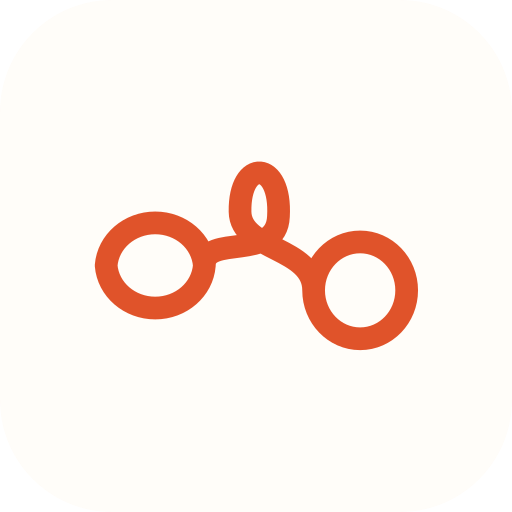
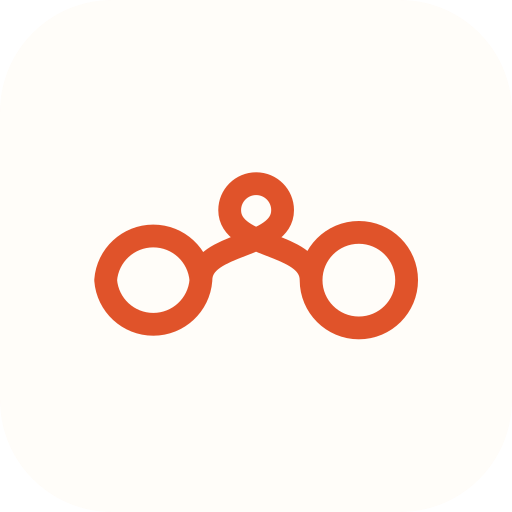
style(brand): 리본을 기하학적으로 — 두 ㅇ 같은 크기 정원·같은 높이, 고리는 가운데 대칭
- 성효님: 로고가 손그림 같다, 비율이 맞춰진 느낌이면 좋겠다. 두 ㅇ 크기·높이가 달랐고 고리가 손으로 휜 곡선이었음.
- 다른 획과 붙은 연의 ㅇ은 바탕색으로 덮고 새 원을 그림. 아이콘도 같은 리본으로 다시 생성.

Claude-Session: https://claude.ai/code/session_0167Tg9DgNhsN7PbABVZ7vUc

Changed region(s): [[0.1562, 0.3125, 0.5625, 0.6562], [0.5312, 0.4062, 0.8125, 0.6875], [0.5625, 0.375, 0.5938, 0.4375]]

diff --git a/src/components/logo-data.ts b/src/components/logo-data.ts
@@ -1,8 +1,8 @@
 // 폰트 윤곽에서 뽑은 로고 모양 (IBM Plex Sans KR 700, 고운바탕 700 — 둘 다 SIL OFL). 손으로 고치지 않는다.
-// 우·연의 ㅇ은 지우고 리본 선 하나(ribbon)로 다시 그린다. 원과 리본 고리는 모두 시계 반대 방향, 같은 곳을 두 번 지나지 않는다:
-// 왼쪽 ㅇ 오른쪽 끝에서 위로 한 바퀴 → 그대로 리본 고리 → 오른쪽 ㅇ 왼쪽 끝으로 들어가 한 바퀴.
+// 우·연의 ㅇ은 지우고(다른 획과 붙은 ㅇ은 erase로 바탕색을 덮어) 리본 선 하나(ribbon)로 다시 그린다.
+// 리본은 기하학적으로 맞춤: 두 ㅇ은 같은 크기 정원·같은 높이, 고리는 가운데 좌우 대칭. 모두 시계 반대 방향으로 한 줄.
 export const LOGOS = {
-  plex: {"label":"IBM Plex Sans KR","vb":"-4.7 -25.8 448 149.4","sw":14.5,"wy":"M85.9 72.8L85.9 84.1L51.3 84.1L51.3 114.2L37.9 114.2L37.9 84.1L3.3 84.1L3.3 72.8L85.9 72.8M118 74.3L118 74.3Q110.9 74.3 105.4 71.5Q99.9 68.6 96.9 63.2Q93.8 57.8 93.8 50.4L93.8 50.4Q93.8 43 96.9 37.7Q99.9 32.3 105.4 29.5Q110.9 26.6 118 26.6L118 26.6Q124.3 26.6 129.4 28.9Q134.4 31.2 137.6 35.5L137.6 35.5L156 35.5L156 22.1L169.4 22.1L169.4 88.5L156 88.5L156 65.8L137.3 65.8Q134.1 69.9 129.1 72.1Q124.1 74.3 118 74.3M118 63.5L118 63.5Q122.6 63.5 125.4 60.9Q128.1 58.2 128.1 53.3L128.1 53.3L128.1 47.6Q128.1 42.7 125.4 40.1Q122.6 37.4 118 37.4L118 37.4Q113.3 37.4 110.6 40.1Q107.8 42.7 107.8 47.6L107.8 47.6L107.8 53.3Q107.8 58.2 110.6 60.9Q113.3 63.5 118 63.5M156 46.3L141.8 46.3Q142.1 48.2 142.1 50.4L142.1 50.4Q142.1 52.7 141.8 55L141.8 55L156 55L156 46.3M124.5 101.7L171.1 101.7L171.1 112.7L119.5 112.7Q111 112.7 111 104.2L111 104.2L111 81.3L124.5 81.3L124.5 101.7","han":"M227 69.2L235.2 69.2L235.2 76.1L227 76.1L227 94.1L218.7 94.1L218.7 51.7L227 51.7L227 69.2M207.3 53.1L207.3 60L190.7 60L190.7 53.1L207.3 53.1M198.7 88.5Q194.5 88.5 191.5 87.1Q188.4 85.7 186.8 83.4Q185.2 81.2 185.2 78.5Q185.2 73.2 189.9 71L189.9 70.5L182.1 70.5L182.1 63.7L215.3 63.7L215.3 70.5L207.5 70.5L207.5 71Q212.2 73.2 212.2 78.5Q212.2 81.2 210.6 83.4Q209 85.7 205.9 87.1Q202.8 88.5 198.7 88.5M198.3 81.5L199.1 81.5Q201.5 81.5 203 80.1Q204.5 78.7 204.5 76.5Q204.5 74.3 203 72.9Q201.5 71.5 199.1 71.5L198.3 71.5Q195.9 71.5 194.4 72.8Q192.9 74.2 192.9 76.5Q192.9 78.8 194.4 80.2Q195.9 81.5 198.3 81.5M199.8 92.1L199.8 101.7L228.3 101.7L228.3 108.5L196.7 108.5Q191.4 108.5 191.4 103.2L191.4 92.1","sik":"M324.4 22.1L337.9 22.1L337.9 75.2L324.4 75.2L324.4 22.1M270.3 75.3L260.3 66.6Q271.4 57.6 276.3 49.8Q281.1 42.1 281.1 33L281.1 26.4L294.6 26.4L294.6 33.8Q294.6 43.8 290.6 51.9L291.1 52.2L294 49.8Q295.8 48.3 297.5 48.3Q299.2 48.3 300.7 49.8L316.1 64.3L306.4 73.7L290.1 57.1Q289.5 56.5 288.7 56.5Q288.1 56.5 287.5 57.1Q282.1 65.2 270.3 75.3M278.3 90.9L278.3 79.6L337.9 79.6L337.9 115.6L324.7 115.6L324.7 90.9M435.3 43.5L435.3 54.7L422.1 54.7L422.1 77.2L408.7 77.2L408.7 22.1L422.1 22.1L422.1 43.5L435.3 43.5M400.1 62L401.7 72.5Q393.3 74 384.3 74.8Q375.2 75.5 361.6 75.5L352.3 75.5L352.3 27.1L394.8 27.1L394.8 37.9L365.4 37.9L365.4 45.5L393.6 45.5L393.6 56.2L365.4 56.2L365.4 64.8Q376.2 64.7 384.2 64Q392.2 63.3 400.1 62M363.5 92.8L363.5 81.6L422.1 81.6L422.1 115.6L408.9 115.6L408.9 92.8","ribbon":"M67.6 44.7 A22.9 17.4 0 0 0 21.7 44.7 A22.9 17.4 0 0 0 67.6 44.7 C67.6 32.5 87.7 41.8 87.8 25.4 C88.1 5.2 73 5.3 74 24.3 C74.8 38.2 101.5 33.1 101.5 50.5 A16.4 19.3 0 0 0 134.4 50.5 A16.4 19.3 0 0 0 101.5 50.5"},
-  batang: {"label":"고운바탕","vb":"-5 -35.3 455.7 152.4","sw":10.5,"wy":"M47.7 104L47.7 104Q45.7 104 45.2 101.6L45.2 101.6Q44.7 99 44.6 96Q44.5 92.9 44.5 91.1L44.5 91.1L44.5 68.6Q40.2 68.7 36 69Q31.8 69.2 27.7 69.4L27.7 69.4Q23.4 69.6 19.8 70.1Q16.2 70.5 13.1 71.1L13.1 71.1Q10.9 71.6 10 71.4Q9 71.2 7.9 70.4L7.9 70.4Q7.3 69.9 6.2 68.9Q5.1 67.9 4.2 66.9Q3.2 65.8 3 65.3L3 65.3Q2.8 64.5 3.9 63Q5 61.5 6.2 61.6L6.2 61.6Q9.4 62.3 13.9 62.7Q18.3 63 23.3 63.1L23.3 63.1Q28.1 63.1 33.9 63.1Q39.7 63 45.7 62.8Q51.6 62.6 57 62.4Q62.3 62.2 66.1 62L66.1 62Q72.3 61.6 77.4 61Q82.4 60.4 85.5 59.6L85.5 59.6Q87.5 59.1 88.3 59.3Q89 59.4 89.7 60.5L89.7 60.5Q90.4 61.5 91.2 63.3Q92 65 92 65.7L92 65.7Q91.9 66.8 90.6 67.9Q89.2 68.9 88.6 68.9L88.6 68.9Q85.8 68.6 83.2 68.5Q80.5 68.3 77 68.2Q73.4 68.1 67.8 68.1L67.8 68.1Q64.5 68.1 61.1 68.2Q57.6 68.2 54 68.3L54 68.3L54 90.6Q54 93.1 53.5 96.3Q53 99.4 51.7 101.7Q50.3 104 47.7 104M165.9 82.5L165.9 82.5Q164.1 82.5 163.6 80.5L163.6 80.5Q163.1 78.2 163 75.2Q162.9 72.2 162.9 70.2L162.9 70.2Q162.9 69.7 162.9 69.5L162.9 69.5L162.9 57.4Q159.5 57.6 156.1 58.1Q152.6 58.6 150.6 59.1L150.6 59.1Q149.3 59.4 148.6 59.5Q147.8 59.5 146.9 59.2L146.9 59.2Q146.1 58.8 144.4 57.8Q142.7 56.7 141.9 55.9L141.9 55.9Q138.8 59.6 134.1 61.7Q129.4 63.7 124 63.9L124 63.9Q117.8 64.1 112.7 61.7Q107.6 59.3 104.6 54.9Q101.5 50.4 101.5 44.6L101.5 44.6Q101.5 38.8 104.5 34.3Q107.5 29.7 112.6 27Q117.7 24.2 123.9 24L123.9 24Q129.8 23.8 134.8 25.8Q139.8 27.9 142.9 32L142.9 32Q143.8 30.1 145.2 30.1L145.2 30.1Q149 30.8 154.2 30.6L154.2 30.6Q155.5 30.6 157.9 30.5Q160.3 30.3 162.9 30.2L162.9 30.2L162.9 27.5Q162.9 24.7 162.7 23.3Q162.4 21.9 161.5 20.9Q160.6 20 158.7 18.8L158.7 18.8Q157.7 18.2 157.3 17.3Q156.8 16.5 157.3 15.5L157.3 15.5Q158.1 13.8 159.4 13.3Q160.7 12.8 162.3 13.1L162.3 13.1Q164.6 13.5 167.1 14.6Q169.6 15.8 171.2 16.9L171.2 16.9Q173 18.2 173 19.4L173 19.4Q172.8 20.7 172.5 23Q172.2 25.3 172.2 27.6L172.2 27.6L172.2 69Q172.2 71.5 171.7 74.6Q171.1 77.7 169.7 80.1Q168.3 82.4 165.9 82.5M132.4 106L132.4 106Q130.9 105.9 129.1 105.1Q127.2 104.3 125.9 102.4Q124.6 100.4 124.6 97L124.6 97L124.6 89.7Q124.6 86.7 124.5 85.3Q124.3 83.8 123.6 82.9Q122.9 82 121.2 80.9L121.2 80.9Q120.3 80.3 120.1 79.6Q119.8 78.9 120.3 77.8L120.3 77.8Q121.1 76.1 122.5 75.7Q123.8 75.3 125.2 75.5L125.2 75.5Q126.9 75.8 129 76.6Q131 77.3 132.5 78.2L132.5 78.2Q133.6 78.9 134.4 79.6Q135.1 80.2 135.1 81L135.1 81Q134.7 82.7 134.5 85Q134.3 87.3 134.3 89.2L134.3 89.2L134.3 95.8Q134.3 98.3 135 98.9Q135.7 99.4 137.2 99.5L137.2 99.5Q141 99.6 145.3 99.6Q149.5 99.6 155.3 99.3L155.3 99.3Q161.8 99 166.5 98Q171.2 97 172.7 96.6L172.7 96.6Q173.8 96.2 174.5 96.5Q175.2 96.8 175.6 97.4L175.6 97.4Q176.4 98.4 177.2 100.1Q178 101.8 178 102.4L178 102.4Q178 103.2 176.9 104.4Q175.7 105.6 175 105.6L175 105.6Q173.7 105.5 170.9 105.5Q168.1 105.4 164.5 105.4Q160.9 105.4 157.1 105.5L157.1 105.5Q156.1 105.5 154.7 105.6Q153.2 105.6 151.4 105.7L151.4 105.7Q148.3 105.8 144.7 105.9Q141 106 137.7 106.1Q134.4 106.1 132.4 106M123.9 57.4L123.9 57.4Q129.5 57.2 133.2 53.5Q136.9 49.8 136.9 43.5L136.9 43.5Q136.9 36.7 133.2 33.5Q129.5 30.2 124 30.5L124 30.5Q118.3 30.8 114.6 34.5Q110.9 38.2 110.9 44.2L110.9 44.2Q110.9 50.7 114.7 54.1Q118.4 57.5 123.9 57.4M153.2 52.4L153.2 52.4Q154.6 52.4 157.4 52.3Q160.1 52.1 162.9 51.9L162.9 51.9L162.9 35.7Q159.2 35.9 156.5 36.3Q153.7 36.8 151.7 37.3L151.7 37.3Q150.4 37.7 149.7 37.7Q148.9 37.7 148 37.4L148 37.4Q147.6 37.2 146.8 36.8Q145.9 36.3 145.1 35.8L145.1 35.8Q146.5 39.2 146.5 43.2L146.5 43.2Q146.5 48 144.5 52L144.5 52Q146.2 52.2 148.5 52.4Q150.8 52.5 153.2 52.4","han":"M205.1 84.1Q201.1 84.2 198.3 82.8Q195.6 81.3 194.2 79.1Q192.8 76.8 192.8 74.6Q192.8 72.2 194 70Q195.2 67.7 197.8 66.1Q200.5 64.6 204.9 64.5Q207.8 64.5 210.6 65.4Q213.5 66.3 215.3 68.3Q217.2 70.4 217.2 74Q217.2 76.4 215.9 78.7Q214.6 81 211.9 82.5Q209.2 84 205.1 84.1M227.7 91Q226.6 91 226.3 89.8Q226 88.3 225.9 86.5Q225.9 84.6 225.9 83.4Q225.9 83.1 225.9 83L225.9 55Q225.9 53.3 225.7 52.4Q225.6 51.6 225.1 51Q224.6 50.4 223.4 49.7Q222.8 49.3 222.5 48.8Q222.2 48.2 222.5 47.6Q223 46.6 223.8 46.2Q224.6 45.9 225.6 46.1Q227 46.4 228.5 47.1Q230 47.8 231 48.5Q232.1 49.3 232.1 50Q232 50.8 231.8 52.3Q231.6 53.7 231.6 55.1L231.6 68.2Q234 67.9 236 67.4Q237.9 66.9 238.8 66.6Q239.4 66.4 239.9 66.6Q240.3 66.7 240.6 67.1Q241 67.7 241.5 68.8Q242 69.9 242 70.4Q242 71 241.3 71.6Q240.5 72.2 240.1 72.2Q238.1 71.9 235.9 71.8Q233.7 71.7 231.6 71.7L231.6 82.6Q231.6 84.2 231.3 86.1Q230.9 88 230.1 89.5Q229.2 90.9 227.7 91M206.9 103.7Q206 103.7 204.9 103.3Q203.7 103 202.9 101.9Q202.1 100.9 202.1 98.8L202.1 95.6Q202.1 93.9 202 93.1Q201.9 92.3 201.5 91.8Q201.1 91.3 200.1 90.8Q198.9 90.1 199.4 88.8Q199.9 87.8 200.7 87.5Q201.6 87.2 202.4 87.3Q203.5 87.5 204.8 87.9Q206.1 88.3 206.9 88.8Q207.6 89.3 208.1 89.6Q208.6 90 208.6 90.5Q208.4 91.6 208.3 93Q208.1 94.4 208.1 95.3L208.1 98Q208.1 99 208.4 99.3Q208.6 99.6 209.2 99.7Q211.6 99.8 214.6 99.8Q217.6 99.8 221.1 99.6Q225.2 99.3 228.1 98.7Q231 98.1 231.9 97.9Q232.6 97.6 233.1 97.8Q233.5 98 233.7 98.4Q234.2 99 234.7 100.1Q235.2 101.1 235.2 101.5Q235.2 102 234.5 102.7Q233.8 103.5 233.4 103.5Q232.6 103.4 230.8 103.4Q229.1 103.3 226.8 103.3Q224.6 103.3 222.3 103.4Q221.6 103.4 220.7 103.4Q219.8 103.5 218.7 103.5Q216.8 103.6 214.5 103.7Q212.3 103.7 210.2 103.8Q208.2 103.8 206.9 103.7M192.3 63Q191.1 63.3 190.6 63.2Q190.1 63.2 189.4 62.6Q189 62.2 188.2 61.4Q187.5 60.6 187.2 60.1Q187 59.5 187.7 58.8Q188.3 58 188.8 58Q189.8 58.2 191.5 58.3Q193.2 58.5 195.4 58.5Q197.5 58.5 199.5 58.5Q201.6 58.5 203.3 58.5Q209.7 58.3 213.7 57.7Q217.6 57.2 219.2 56.8Q220.3 56.5 220.8 57.2Q221.3 58 221.6 59Q221.9 59.9 221.9 60.2Q221.9 60.7 221.2 61.3Q220.5 62 220 61.9Q218.4 61.8 215.7 61.8Q213 61.7 210 61.8Q206.9 61.8 204.2 62Q202.5 62.1 200.4 62.2Q198.2 62.4 196.1 62.6Q193.9 62.7 192.3 63M205 80Q208 79.9 209.7 78.1Q211.4 76.3 211.4 73.7Q211.4 72.5 210.8 71.2Q210.2 69.9 208.8 68.9Q207.5 67.9 205.3 67.9Q201.7 67.9 200.1 69.9Q198.5 71.8 198.5 74.3Q198.5 76.6 200.2 78.4Q202 80.1 205 80M202.4 54.5Q201.2 54.3 199.7 53.9Q198.1 53.4 196.7 52.8Q195.3 52.1 194.5 51.5Q194.2 50.9 194.6 49.9Q195 48.9 195.9 48.9Q198.3 49.3 200.8 49.5Q203.3 49.8 205.6 49.8Q207.6 49.8 209.4 49.7Q211.3 49.5 212.5 49.4Q213.5 49.5 214.1 50Q214.8 50.6 214.8 51.1Q214.7 51.6 214.2 52.5Q213.7 53.4 213 53.8Q211.9 54.2 210 54.4Q208.1 54.6 206 54.6Q204 54.7 202.4 54.5","sik":"M272.2 66.8Q270.6 67.7 268.6 67.3Q266.6 67 266.3 65.7Q266.2 65 266.4 64.3Q266.6 63.7 267.6 63Q270.9 60.6 274.5 56.9Q278.2 53.3 281.7 48.8Q285.3 44.4 288.2 39.6Q291.1 34.9 292.7 30.3Q292.7 30.2 292.8 29.9Q293.5 28.1 293.6 26.5Q293.8 25 292.1 23.5Q291.4 22.9 291 22.3Q290.7 21.6 291.2 20.6Q292.4 18.1 294.1 18Q295.9 17.9 297.4 18.7Q299.3 19.5 301.5 20.9Q303.8 22.4 305 23.7Q306.3 24.9 306.1 26Q305.1 27.6 304.1 29.3Q303.2 31.1 302.1 33.1Q301.3 34.6 300.3 36.1Q299.4 37.7 298.5 39.2Q304.3 43.6 309 46.2Q313.7 48.8 316.7 49.7Q317.6 50.1 318.6 51.8Q319.6 53.6 320.4 55.8Q321.2 57.9 321.2 59.6Q320.8 61.4 318.8 62.4Q316.9 63.3 315.6 63Q313.9 60.9 311.3 58.3Q308.8 55.7 305.9 52.9Q303 50.2 300.3 47.8Q297.6 45.4 295.6 43.7Q290.7 50.6 284.7 56.9Q278.7 63.3 272.2 66.8M333.7 109Q332.3 109.1 331.7 108.4Q331.1 107.7 330.9 106.9Q330.5 105.2 330.4 102.9Q330.3 100.6 330.3 98.6L330.1 81.8Q330.1 80.9 329.7 80.7Q329.3 80.4 328.7 80.4Q326 80.5 320.2 80.8Q314.5 81.2 307.4 81.7Q304.8 81.9 301.2 82.4Q297.6 82.9 295 83.5Q293.1 84 292.3 83.8Q291.6 83.7 290.7 83.1Q289.4 82.2 287.8 80.6Q286.2 79 285.7 78Q285.6 77 286.6 75.7Q287.6 74.4 289 74.3Q290.4 74.6 292.7 74.8Q295 75.1 297.6 75.2Q300.3 75.3 302.5 75.3Q307.1 75.2 311.5 75Q315.9 74.9 320.5 74.5Q323.4 74.3 325.8 73.9Q328.3 73.5 330.2 72.8Q331 72.5 331.4 72.5Q331.8 72.4 332.7 72.6L339.3 73.8Q340.9 74.1 340.6 75.8Q340.5 76.7 340.3 78.3Q340.1 80 339.9 81.8Q339.8 83.6 339.8 84.8L339.7 97.1Q339.7 99.7 339 102.5Q338.4 105.2 337 107Q335.7 108.9 333.7 109M334.6 68.5Q332.9 68.5 332.3 66.4Q331.8 64.1 331.7 61.3Q331.6 58.6 331.6 56.8Q331.6 56.4 331.6 56.2L331.6 27.5Q331.6 24.7 331.4 23.3Q331.2 21.8 330.3 20.9Q329.5 20 327.6 18.7Q326.6 18.1 326.1 17.3Q325.7 16.5 326.2 15.5Q327 13.8 328.3 13.3Q329.6 12.8 331.2 13.1Q333.5 13.5 335.9 14.6Q338.3 15.8 339.9 16.9Q341.7 18.1 341.7 19.4Q341.5 20.7 341.2 23Q340.9 25.3 340.9 27.6L340.9 55.7Q340.9 58.2 340.3 61.1Q339.8 64.1 338.4 66.3Q337 68.4 334.6 68.5M368 67Q365.2 66.5 363.8 64.2Q362.4 61.9 362.4 58.6L362.4 34.9Q362.4 31.7 361.7 30.3Q361.1 29 358.8 27.7Q356.7 26.5 357.4 24.8Q358.2 22.8 359.5 22.3Q360.8 21.9 362.3 22.1Q363.8 22.3 365.8 22.8Q367.8 23.3 369.4 23.8Q375 23.9 380.5 23.5Q386 23.2 390.4 22.6Q394.8 22 397 21.2Q398.1 20.7 398.8 21Q399.5 21.4 399.9 22Q400.7 23 401.4 24.5Q402.2 25.9 402.2 26.4Q402.2 27.2 401 28.4Q399.9 29.6 399.2 29.6Q397.2 29.4 393.8 29.3Q390.4 29.3 386.4 29.4Q382.5 29.5 378.6 29.6Q374.8 29.7 371.9 29.9L371.9 40.3Q376.9 40.2 381.7 39.9Q386.5 39.7 390.3 39.3Q394.1 38.8 396 38.2Q397.1 37.8 397.7 38Q398.3 38.3 398.9 39Q399.7 40 400.3 41.1Q401 42.3 401 42.8Q400.9 43.6 399.9 44.7Q399 45.8 398.3 45.9Q396.4 45.7 393.1 45.6Q389.9 45.6 386.1 45.7Q382.4 45.8 378.6 45.9Q374.9 46 371.9 46.2L371.9 55.4Q371.9 57.5 372.3 58Q372.7 58.5 374.7 58.5Q379.6 58.4 384.9 57.8Q390.2 57.2 395 56.3Q399.9 55.4 403.7 54.4Q407.6 53.5 409.7 52.7Q411.3 51.9 412.2 52.4Q413.1 53 413.2 53.9Q413.2 55.5 411.7 56.8Q410.3 58 407.4 59.3Q404.6 60.5 399.8 61.8Q395 63.1 389.3 64.3Q383.6 65.4 378 66.2Q372.4 66.9 368 67M419.6 69.9Q417.9 69.9 417.3 67.8Q416.8 65.5 416.7 62.8Q416.6 60 416.6 58.2Q416.6 57.8 416.6 57.6L416.6 27.5Q416.6 24.7 416.4 23.3Q416.2 21.8 415.3 20.9Q414.5 20 412.6 18.7Q411.6 18.1 411.1 17.3Q410.7 16.5 411.2 15.5Q412 13.8 413.3 13.3Q414.6 12.8 416.2 13.1Q418.5 13.5 420.9 14.6Q423.3 15.8 424.9 16.9Q426.7 18.1 426.7 19.4Q426.5 20.7 426.2 23Q425.9 25.3 425.9 27.6L425.9 42.7Q429.8 42.3 432.9 41.4Q436.1 40.6 437.4 40.2Q438.5 39.8 439.2 40Q439.9 40.3 440.3 40.9Q441.1 41.9 441.9 43.7Q442.7 45.5 442.7 46.2Q442.7 47.2 441.4 48.2Q440.2 49.2 439.5 49.2Q436.4 48.7 432.8 48.5Q429.3 48.4 425.9 48.4L425.9 57.1Q425.9 59.6 425.3 62.5Q424.8 65.5 423.4 67.7Q422 69.8 419.6 69.9M418.6 108.8Q417.2 108.9 416.6 108.2Q416 107.5 415.8 106.7Q415.4 105.2 415.3 103.3Q415.3 101.3 415.3 99.4Q415.3 98.7 415.3 98.4L415.1 82.3Q415.1 81.4 414.7 81.2Q414.3 80.9 413.7 80.9Q411 81 405.2 81.3Q399.5 81.7 392.4 82.2Q389.8 82.4 386.2 82.9Q382.6 83.4 380 84Q378.1 84.5 377.3 84.3Q376.6 84.2 375.7 83.6Q374.4 82.7 372.8 81.1Q371.2 79.5 370.7 78.5Q370.6 77.5 371.6 76.2Q372.6 74.9 374 74.8Q375.4 75.1 377.7 75.3Q380 75.6 382.6 75.7Q385.3 75.8 387.5 75.8Q392.1 75.7 396.5 75.5Q400.9 75.4 405.5 75Q408.4 74.8 410.8 74.4Q413.3 74 415.2 73.3Q416 73 416.4 73Q416.8 72.9 417.7 73.1L424.3 74.3Q425.9 74.6 425.6 76.3Q425.5 77.2 425.3 78.8Q425.1 80.5 424.9 82.3Q424.8 84.1 424.8 85.3L424.7 96.9Q424.7 99.5 424 102.3Q423.3 105 421.9 106.8Q420.6 108.7 418.6 108.8","ribbon":"M66.3 34.7 A18.2 17 0 0 0 30 34.7 A18.2 17 0 0 0 66.3 34.7 C66.3 22.8 93 33.5 93.7 16.6 C94.9 -4.3 79.2 -4.9 79.5 14.8 C79.7 29.3 106.7 27.8 106.7 43.9 A17.2 17.9 0 0 0 141.1 43.9 A17.2 17.9 0 0 0 106.7 43.9"},
+  plex: {"label":"IBM Plex Sans KR","vb":"-4.7 -25.8 448 149.4","sw":14.5,"erase":"M134.4 50.5 A16.4 19.3 0 1 0 101.5 50.5 A16.4 19.3 0 1 0 134.4 50.5","eraseW":15.5,"wy":"M85.9 72.8L85.9 84.1L51.3 84.1L51.3 114.2L37.9 114.2L37.9 84.1L3.3 84.1L3.3 72.8L85.9 72.8M118 74.3L118 74.3Q110.9 74.3 105.4 71.5Q99.9 68.6 96.9 63.2Q93.8 57.8 93.8 50.4L93.8 50.4Q93.8 43 96.9 37.7Q99.9 32.3 105.4 29.5Q110.9 26.6 118 26.6L118 26.6Q124.3 26.6 129.4 28.9Q134.4 31.2 137.6 35.5L137.6 35.5L156 35.5L156 22.1L169.4 22.1L169.4 88.5L156 88.5L156 65.8L137.3 65.8Q134.1 69.9 129.1 72.1Q124.1 74.3 118 74.3M118 63.5L118 63.5Q122.6 63.5 125.4 60.9Q128.1 58.2 128.1 53.3L128.1 53.3L128.1 47.6Q128.1 42.7 125.4 40.1Q122.6 37.4 118 37.4L118 37.4Q113.3 37.4 110.6 40.1Q107.8 42.7 107.8 47.6L107.8 47.6L107.8 53.3Q107.8 58.2 110.6 60.9Q113.3 63.5 118 63.5M156 46.3L141.8 46.3Q142.1 48.2 142.1 50.4L142.1 50.4Q142.1 52.7 141.8 55L141.8 55L156 55L156 46.3M124.5 101.7L171.1 101.7L171.1 112.7L119.5 112.7Q111 112.7 111 104.2L111 104.2L111 81.3L124.5 81.3L124.5 101.7","han":"M227 69.2L235.2 69.2L235.2 76.1L227 76.1L227 94.1L218.7 94.1L218.7 51.7L227 51.7L227 69.2M207.3 53.1L207.3 60L190.7 60L190.7 53.1L207.3 53.1M198.7 88.5Q194.5 88.5 191.5 87.1Q188.4 85.7 186.8 83.4Q185.2 81.2 185.2 78.5Q185.2 73.2 189.9 71L189.9 70.5L182.1 70.5L182.1 63.7L215.3 63.7L215.3 70.5L207.5 70.5L207.5 71Q212.2 73.2 212.2 78.5Q212.2 81.2 210.6 83.4Q209 85.7 205.9 87.1Q202.8 88.5 198.7 88.5M198.3 81.5L199.1 81.5Q201.5 81.5 203 80.1Q204.5 78.7 204.5 76.5Q204.5 74.3 203 72.9Q201.5 71.5 199.1 71.5L198.3 71.5Q195.9 71.5 194.4 72.8Q192.9 74.2 192.9 76.5Q192.9 78.8 194.4 80.2Q195.9 81.5 198.3 81.5M199.8 92.1L199.8 101.7L228.3 101.7L228.3 108.5L196.7 108.5Q191.4 108.5 191.4 103.2L191.4 92.1","sik":"M324.4 22.1L337.9 22.1L337.9 75.2L324.4 75.2L324.4 22.1M270.3 75.3L260.3 66.6Q271.4 57.6 276.3 49.8Q281.1 42.1 281.1 33L281.1 26.4L294.6 26.4L294.6 33.8Q294.6 43.8 290.6 51.9L291.1 52.2L294 49.8Q295.8 48.3 297.5 48.3Q299.2 48.3 300.7 49.8L316.1 64.3L306.4 73.7L290.1 57.1Q289.5 56.5 288.7 56.5Q288.1 56.5 287.5 57.1Q282.1 65.2 270.3 75.3M278.3 90.9L278.3 79.6L337.9 79.6L337.9 115.6L324.7 115.6L324.7 90.9M435.3 43.5L435.3 54.7L422.1 54.7L422.1 77.2L408.7 77.2L408.7 22.1L422.1 22.1L422.1 43.5L435.3 43.5M400.1 62L401.7 72.5Q393.3 74 384.3 74.8Q375.2 75.5 361.6 75.5L352.3 75.5L352.3 27.1L394.8 27.1L394.8 37.9L365.4 37.9L365.4 45.5L393.6 45.5L393.6 56.2L365.4 56.2L365.4 64.8Q376.2 64.7 384.2 64Q392.2 63.3 400.1 62M363.5 92.8L363.5 81.6L422.1 81.6L422.1 115.6L408.9 115.6L408.9 92.8","ribbon":"M63.7 47.6 A19 19 0 0 0 25.6 47.6 A19 19 0 0 0 63.7 47.6 C63.7 30.6 95.7 33.7 95.7 16.8 A14.4 14.4 0 0 0 66.9 16.8 C66.9 33.7 98.9 30.6 98.9 47.6 A19 19 0 0 0 137 47.6 A19 19 0 0 0 98.9 47.6"},
+  batang: {"label":"고운바탕","vb":"-5 -35.3 455.7 152.4","sw":10.5,"erase":"M141.1 43.9 A17.2 17.9 0 1 0 106.7 43.9 A17.2 17.9 0 1 0 141.1 43.9","eraseW":11.5,"wy":"M47.7 104L47.7 104Q45.7 104 45.2 101.6L45.2 101.6Q44.7 99 44.6 96Q44.5 92.9 44.5 91.1L44.5 91.1L44.5 68.6Q40.2 68.7 36 69Q31.8 69.2 27.7 69.4L27.7 69.4Q23.4 69.6 19.8 70.1Q16.2 70.5 13.1 71.1L13.1 71.1Q10.9 71.6 10 71.4Q9 71.2 7.9 70.4L7.9 70.4Q7.3 69.9 6.2 68.9Q5.1 67.9 4.2 66.9Q3.2 65.8 3 65.3L3 65.3Q2.8 64.5 3.9 63Q5 61.5 6.2 61.6L6.2 61.6Q9.4 62.3 13.9 62.7Q18.3 63 23.3 63.1L23.3 63.1Q28.1 63.1 33.9 63.1Q39.7 63 45.7 62.8Q51.6 62.6 57 62.4Q62.3 62.2 66.1 62L66.1 62Q72.3 61.6 77.4 61Q82.4 60.4 85.5 59.6L85.5 59.6Q87.5 59.1 88.3 59.3Q89 59.4 89.7 60.5L89.7 60.5Q90.4 61.5 91.2 63.3Q92 65 92 65.7L92 65.7Q91.9 66.8 90.6 67.9Q89.2 68.9 88.6 68.9L88.6 68.9Q85.8 68.6 83.2 68.5Q80.5 68.3 77 68.2Q73.4 68.1 67.8 68.1L67.8 68.1Q64.5 68.1 61.1 68.2Q57.6 68.2 54 68.3L54 68.3L54 90.6Q54 93.1 53.5 96.3Q53 99.4 51.7 101.7Q50.3 104 47.7 104M165.9 82.5L165.9 82.5Q164.1 82.5 163.6 80.5L163.6 80.5Q163.1 78.2 163 75.2Q162.9 72.2 162.9 70.2L162.9 70.2Q162.9 69.7 162.9 69.5L162.9 69.5L162.9 57.4Q159.5 57.6 156.1 58.1Q152.6 58.6 150.6 59.1L150.6 59.1Q149.3 59.4 148.6 59.5Q147.8 59.5 146.9 59.2L146.9 59.2Q146.1 58.8 144.4 57.8Q142.7 56.7 141.9 55.9L141.9 55.9Q138.8 59.6 134.1 61.7Q129.4 63.7 124 63.9L124 63.9Q117.8 64.1 112.7 61.7Q107.6 59.3 104.6 54.9Q101.5 50.4 101.5 44.6L101.5 44.6Q101.5 38.8 104.5 34.3Q107.5 29.7 112.6 27Q117.7 24.2 123.9 24L123.9 24Q129.8 23.8 134.8 25.8Q139.8 27.9 142.9 32L142.9 32Q143.8 30.1 145.2 30.1L145.2 30.1Q149 30.8 154.2 30.6L154.2 30.6Q155.5 30.6 157.9 30.5Q160.3 30.3 162.9 30.2L162.9 30.2L162.9 27.5Q162.9 24.7 162.7 23.3Q162.4 21.9 161.5 20.9Q160.6 20 158.7 18.8L158.7 18.8Q157.7 18.2 157.3 17.3Q156.8 16.5 157.3 15.5L157.3 15.5Q158.1 13.8 159.4 13.3Q160.7 12.8 162.3 13.1L162.3 13.1Q164.6 13.5 167.1 14.6Q169.6 15.8 171.2 16.9L171.2 16.9Q173 18.2 173 19.4L173 19.4Q172.8 20.7 172.5 23Q172.2 25.3 172.2 27.6L172.2 27.6L172.2 69Q172.2 71.5 171.7 74.6Q171.1 77.7 169.7 80.1Q168.3 82.4 165.9 82.5M132.4 106L132.4 106Q130.9 105.9 129.1 105.1Q127.2 104.3 125.9 102.4Q124.6 100.4 124.6 97L124.6 97L124.6 89.7Q124.6 86.7 124.5 85.3Q124.3 83.8 123.6 82.9Q122.9 82 121.2 80.9L121.2 80.9Q120.3 80.3 120.1 79.6Q119.8 78.9 120.3 77.8L120.3 77.8Q121.1 76.1 122.5 75.7Q123.8 75.3 125.2 75.5L125.2 75.5Q126.9 75.8 129 76.6Q131 77.3 132.5 78.2L132.5 78.2Q133.6 78.9 134.4 79.6Q135.1 80.2 135.1 81L135.1 81Q134.7 82.7 134.5 85Q134.3 87.3 134.3 89.2L134.3 89.2L134.3 95.8Q134.3 98.3 135 98.9Q135.7 99.4 137.2 99.5L137.2 99.5Q141 99.6 145.3 99.6Q149.5 99.6 155.3 99.3L155.3 99.3Q161.8 99 166.5 98Q171.2 97 172.7 96.6L172.7 96.6Q173.8 96.2 174.5 96.5Q175.2 96.8 175.6 97.4L175.6 97.4Q176.4 98.4 177.2 100.1Q178 101.8 178 102.4L178 102.4Q178 103.2 176.9 104.4Q175.7 105.6 175 105.6L175 105.6Q173.7 105.5 170.9 105.5Q168.1 105.4 164.5 105.4Q160.9 105.4 157.1 105.5L157.1 105.5Q156.1 105.5 154.7 105.6Q153.2 105.6 151.4 105.7L151.4 105.7Q148.3 105.8 144.7 105.9Q141 106 137.7 106.1Q134.4 106.1 132.4 106M123.9 57.4L123.9 57.4Q129.5 57.2 133.2 53.5Q136.9 49.8 136.9 43.5L136.9 43.5Q136.9 36.7 133.2 33.5Q129.5 30.2 124 30.5L124 30.5Q118.3 30.8 114.6 34.5Q110.9 38.2 110.9 44.2L110.9 44.2Q110.9 50.7 114.7 54.1Q118.4 57.5 123.9 57.4M153.2 52.4L153.2 52.4Q154.6 52.4 157.4 52.3Q160.1 52.1 162.9 51.9L162.9 51.9L162.9 35.7Q159.2 35.9 156.5 36.3Q153.7 36.8 151.7 37.3L151.7 37.3Q150.4 37.7 149.7 37.7Q148.9 37.7 148 37.4L148 37.4Q147.6 37.2 146.8 36.8Q145.9 36.3 145.1 35.8L145.1 35.8Q146.5 39.2 146.5 43.2L146.5 43.2Q146.5 48 144.5 52L144.5 52Q146.2 52.2 148.5 52.4Q150.8 52.5 153.2 52.4","han":"M205.1 84.1Q201.1 84.2 198.3 82.8Q195.6 81.3 194.2 79.1Q192.8 76.8 192.8 74.6Q192.8 72.2 194 70Q195.2 67.7 197.8 66.1Q200.5 64.6 204.9 64.5Q207.8 64.5 210.6 65.4Q213.5 66.3 215.3 68.3Q217.2 70.4 217.2 74Q217.2 76.4 215.9 78.7Q214.6 81 211.9 82.5Q209.2 84 205.1 84.1M227.7 91Q226.6 91 226.3 89.8Q226 88.3 225.9 86.5Q225.9 84.6 225.9 83.4Q225.9 83.1 225.9 83L225.9 55Q225.9 53.3 225.7 52.4Q225.6 51.6 225.1 51Q224.6 50.4 223.4 49.7Q222.8 49.3 222.5 48.8Q222.2 48.2 222.5 47.6Q223 46.6 223.8 46.2Q224.6 45.9 225.6 46.1Q227 46.4 228.5 47.1Q230 47.8 231 48.5Q232.1 49.3 232.1 50Q232 50.8 231.8 52.3Q231.6 53.7 231.6 55.1L231.6 68.2Q234 67.9 236 67.4Q237.9 66.9 238.8 66.6Q239.4 66.4 239.9 66.6Q240.3 66.7 240.6 67.1Q241 67.7 241.5 68.8Q242 69.9 242 70.4Q242 71 241.3 71.6Q240.5 72.2 240.1 72.2Q238.1 71.9 235.9 71.8Q233.7 71.7 231.6 71.7L231.6 82.6Q231.6 84.2 231.3 86.1Q230.9 88 230.1 89.5Q229.2 90.9 227.7 91M206.9 103.7Q206 103.7 204.9 103.3Q203.7 103 202.9 101.9Q202.1 100.9 202.1 98.8L202.1 95.6Q202.1 93.9 202 93.1Q201.9 92.3 201.5 91.8Q201.1 91.3 200.1 90.8Q198.9 90.1 199.4 88.8Q199.9 87.8 200.7 87.5Q201.6 87.2 202.4 87.3Q203.5 87.5 204.8 87.9Q206.1 88.3 206.9 88.8Q207.6 89.3 208.1 89.6Q208.6 90 208.6 90.5Q208.4 91.6 208.3 93Q208.1 94.4 208.1 95.3L208.1 98Q208.1 99 208.4 99.3Q208.6 99.6 209.2 99.7Q211.6 99.8 214.6 99.8Q217.6 99.8 221.1 99.6Q225.2 99.3 228.1 98.7Q231 98.1 231.9 97.9Q232.6 97.6 233.1 97.8Q233.5 98 233.7 98.4Q234.2 99 234.7 100.1Q235.2 101.1 235.2 101.5Q235.2 102 234.5 102.7Q233.8 103.5 233.4 103.5Q232.6 103.4 230.8 103.4Q229.1 103.3 226.8 103.3Q224.6 103.3 222.3 103.4Q221.6 103.4 220.7 103.4Q219.8 103.5 218.7 103.5Q216.8 103.6 214.5 103.7Q212.3 103.7 210.2 103.8Q208.2 103.8 206.9 103.7M192.3 63Q191.1 63.3 190.6 63.2Q190.1 63.2 189.4 62.6Q189 62.2 188.2 61.4Q187.5 60.6 187.2 60.1Q187 59.5 187.7 58.8Q188.3 58 188.8 58Q189.8 58.2 191.5 58.3Q193.2 58.5 195.4 58.5Q197.5 58.5 199.5 58.5Q201.6 58.5 203.3 58.5Q209.7 58.3 213.7 57.7Q217.6 57.2 219.2 56.8Q220.3 56.5 220.8 57.2Q221.3 58 221.6 59Q221.9 59.9 221.9 60.2Q221.9 60.7 221.2 61.3Q220.5 62 220 61.9Q218.4 61.8 215.7 61.8Q213 61.7 210 61.8Q206.9 61.8 204.2 62Q202.5 62.1 200.4 62.2Q198.2 62.4 196.1 62.6Q193.9 62.7 192.3 63M205 80Q208 79.9 209.7 78.1Q211.4 76.3 211.4 73.7Q211.4 72.5 210.8 71.2Q210.2 69.9 208.8 68.9Q207.5 67.9 205.3 67.9Q201.7 67.9 200.1 69.9Q198.5 71.8 198.5 74.3Q198.5 76.6 200.2 78.4Q202 80.1 205 80M202.4 54.5Q201.2 54.3 199.7 53.9Q198.1 53.4 196.7 52.8Q195.3 52.1 194.5 51.5Q194.2 50.9 194.6 49.9Q195 48.9 195.9 48.9Q198.3 49.3 200.8 49.5Q203.3 49.8 205.6 49.8Q207.6 49.8 209.4 49.7Q211.3 49.5 212.5 49.4Q213.5 49.5 214.1 50Q214.8 50.6 214.8 51.1Q214.7 51.6 214.2 52.5Q213.7 53.4 213 53.8Q211.9 54.2 210 54.4Q208.1 54.6 206 54.6Q204 54.7 202.4 54.5","sik":"M272.2 66.8Q270.6 67.7 268.6 67.3Q266.6 67 266.3 65.7Q266.2 65 266.4 64.3Q266.6 63.7 267.6 63Q270.9 60.6 274.5 56.9Q278.2 53.3 281.7 48.8Q285.3 44.4 288.2 39.6Q291.1 34.9 292.7 30.3Q292.7 30.2 292.8 29.9Q293.5 28.1 293.6 26.5Q293.8 25 292.1 23.5Q291.4 22.9 291 22.3Q290.7 21.6 291.2 20.6Q292.4 18.1 294.1 18Q295.9 17.9 297.4 18.7Q299.3 19.5 301.5 20.9Q303.8 22.4 305 23.7Q306.3 24.9 306.1 26Q305.1 27.6 304.1 29.3Q303.2 31.1 302.1 33.1Q301.3 34.6 300.3 36.1Q299.4 37.7 298.5 39.2Q304.3 43.6 309 46.2Q313.7 48.8 316.7 49.7Q317.6 50.1 318.6 51.8Q319.6 53.6 320.4 55.8Q321.2 57.9 321.2 59.6Q320.8 61.4 318.8 62.4Q316.9 63.3 315.6 63Q313.9 60.9 311.3 58.3Q308.8 55.7 305.9 52.9Q303 50.2 300.3 47.8Q297.6 45.4 295.6 43.7Q290.7 50.6 284.7 56.9Q278.7 63.3 272.2 66.8M333.7 109Q332.3 109.1 331.7 108.4Q331.1 107.7 330.9 106.9Q330.5 105.2 330.4 102.9Q330.3 100.6 330.3 98.6L330.1 81.8Q330.1 80.9 329.7 80.7Q329.3 80.4 328.7 80.4Q326 80.5 320.2 80.8Q314.5 81.2 307.4 81.7Q304.8 81.9 301.2 82.4Q297.6 82.9 295 83.5Q293.1 84 292.3 83.8Q291.6 83.7 290.7 83.1Q289.4 82.2 287.8 80.6Q286.2 79 285.7 78Q285.6 77 286.6 75.7Q287.6 74.4 289 74.3Q290.4 74.6 292.7 74.8Q295 75.1 297.6 75.2Q300.3 75.3 302.5 75.3Q307.1 75.2 311.5 75Q315.9 74.9 320.5 74.5Q323.4 74.3 325.8 73.9Q328.3 73.5 330.2 72.8Q331 72.5 331.4 72.5Q331.8 72.4 332.7 72.6L339.3 73.8Q340.9 74.1 340.6 75.8Q340.5 76.7 340.3 78.3Q340.1 80 339.9 81.8Q339.8 83.6 339.8 84.8L339.7 97.1Q339.7 99.7 339 102.5Q338.4 105.2 337 107Q335.7 108.9 333.7 109M334.6 68.5Q332.9 68.5 332.3 66.4Q331.8 64.1 331.7 61.3Q331.6 58.6 331.6 56.8Q331.6 56.4 331.6 56.2L331.6 27.5Q331.6 24.7 331.4 23.3Q331.2 21.8 330.3 20.9Q329.5 20 327.6 18.7Q326.6 18.1 326.1 17.3Q325.7 16.5 326.2 15.5Q327 13.8 328.3 13.3Q329.6 12.8 331.2 13.1Q333.5 13.5 335.9 14.6Q338.3 15.8 339.9 16.9Q341.7 18.1 341.7 19.4Q341.5 20.7 341.2 23Q340.9 25.3 340.9 27.6L340.9 55.7Q340.9 58.2 340.3 61.1Q339.8 64.1 338.4 66.3Q337 68.4 334.6 68.5M368 67Q365.2 66.5 363.8 64.2Q362.4 61.9 362.4 58.6L362.4 34.9Q362.4 31.7 361.7 30.3Q361.1 29 358.8 27.7Q356.7 26.5 357.4 24.8Q358.2 22.8 359.5 22.3Q360.8 21.9 362.3 22.1Q363.8 22.3 365.8 22.8Q367.8 23.3 369.4 23.8Q375 23.9 380.5 23.5Q386 23.2 390.4 22.6Q394.8 22 397 21.2Q398.1 20.7 398.8 21Q399.5 21.4 399.9 22Q400.7 23 401.4 24.5Q402.2 25.9 402.2 26.4Q402.2 27.2 401 28.4Q399.9 29.6 399.2 29.6Q397.2 29.4 393.8 29.3Q390.4 29.3 386.4 29.4Q382.5 29.5 378.6 29.6Q374.8 29.7 371.9 29.9L371.9 40.3Q376.9 40.2 381.7 39.9Q386.5 39.7 390.3 39.3Q394.1 38.8 396 38.2Q397.1 37.8 397.7 38Q398.3 38.3 398.9 39Q399.7 40 400.3 41.1Q401 42.3 401 42.8Q400.9 43.6 399.9 44.7Q399 45.8 398.3 45.9Q396.4 45.7 393.1 45.6Q389.9 45.6 386.1 45.7Q382.4 45.8 378.6 45.9Q374.9 46 371.9 46.2L371.9 55.4Q371.9 57.5 372.3 58Q372.7 58.5 374.7 58.5Q379.6 58.4 384.9 57.8Q390.2 57.2 395 56.3Q399.9 55.4 403.7 54.4Q407.6 53.5 409.7 52.7Q411.3 51.9 412.2 52.4Q413.1 53 413.2 53.9Q413.2 55.5 411.7 56.8Q410.3 58 407.4 59.3Q404.6 60.5 399.8 61.8Q395 63.1 389.3 64.3Q383.6 65.4 378 66.2Q372.4 66.9 368 67M419.6 69.9Q417.9 69.9 417.3 67.8Q416.8 65.5 416.7 62.8Q416.6 60 416.6 58.2Q416.6 57.8 416.6 57.6L416.6 27.5Q416.6 24.7 416.4 23.3Q416.2 21.8 415.3 20.9Q414.5 20 412.6 18.7Q411.6 18.1 411.1 17.3Q410.7 16.5 411.2 15.5Q412 13.8 413.3 13.3Q414.6 12.8 416.2 13.1Q418.5 13.5 420.9 14.6Q423.3 15.8 424.9 16.9Q426.7 18.1 426.7 19.4Q426.5 20.7 426.2 23Q425.9 25.3 425.9 27.6L425.9 42.7Q429.8 42.3 432.9 41.4Q436.1 40.6 437.4 40.2Q438.5 39.8 439.2 40Q439.9 40.3 440.3 40.9Q441.1 41.9 441.9 43.7Q442.7 45.5 442.7 46.2Q442.7 47.2 441.4 48.2Q440.2 49.2 439.5 49.2Q436.4 48.7 432.8 48.5Q429.3 48.4 425.9 48.4L425.9 57.1Q425.9 59.6 425.3 62.5Q424.8 65.5 423.4 67.7Q422 69.8 419.6 69.9M418.6 108.8Q417.2 108.9 416.6 108.2Q416 107.5 415.8 106.7Q415.4 105.2 415.3 103.3Q415.3 101.3 415.3 99.4Q415.3 98.7 415.3 98.4L415.1 82.3Q415.1 81.4 414.7 81.2Q414.3 80.9 413.7 80.9Q411 81 405.2 81.3Q399.5 81.7 392.4 82.2Q389.8 82.4 386.2 82.9Q382.6 83.4 380 84Q378.1 84.5 377.3 84.3Q376.6 84.2 375.7 83.6Q374.4 82.7 372.8 81.1Q371.2 79.5 370.7 78.5Q370.6 77.5 371.6 76.2Q372.6 74.9 374 74.8Q375.4 75.1 377.7 75.3Q380 75.6 382.6 75.7Q385.3 75.8 387.5 75.8Q392.1 75.7 396.5 75.5Q400.9 75.4 405.5 75Q408.4 74.8 410.8 74.4Q413.3 74 415.2 73.3Q416 73 416.4 73Q416.8 72.9 417.7 73.1L424.3 74.3Q425.9 74.6 425.6 76.3Q425.5 77.2 425.3 78.8Q425.1 80.5 424.9 82.3Q424.8 84.1 424.8 85.3L424.7 96.9Q424.7 99.5 424 102.3Q423.3 105 421.9 106.8Q420.6 108.7 418.6 108.8","ribbon":"M65.7 39.3 A17.6 17.6 0 0 0 30.6 39.3 A17.6 17.6 0 0 0 65.7 39.3 C65.7 25.1 95.8 27.7 95.8 13.5 A9.7 9.7 0 0 0 76.3 13.5 C76.3 27.7 106.3 25.1 106.3 39.3 A17.6 17.6 0 0 0 141.5 39.3 A17.6 17.6 0 0 0 106.3 39.3"},
 } as const;
 export type LogoFont = keyof typeof LOGOS;

diff --git a/src/components/logo.tsx b/src/components/logo.tsx
@@ -14,6 +14,8 @@ export function Wordmark({ animate = false, font = "batang", className, title = 
     <svg viewBox={L.vb} className={className} role="img" aria-label={title}>
       <g fill="currentColor">
         <path d={L.wy} className={animate ? "wm-rise" : undefined} {...d(1.0)} />
+        {/* 다른 획과 붙어 있던 원래 ㅇ을 바탕색으로 덮는다(리본 원이 그 자리를 대신한다) */}
+        {L.erase && <path d={L.erase} fill="none" stroke="var(--paper)" strokeWidth={L.eraseW} className={animate ? "wm-rise" : undefined} {...d(1.0)} />}
         <path d={L.han} className={animate ? "wm-pop" : undefined} {...d(1.08)} />
         <path d={L.sik} className={animate ? "wm-rise" : undefined} {...d(1.14)} />
       </g>
